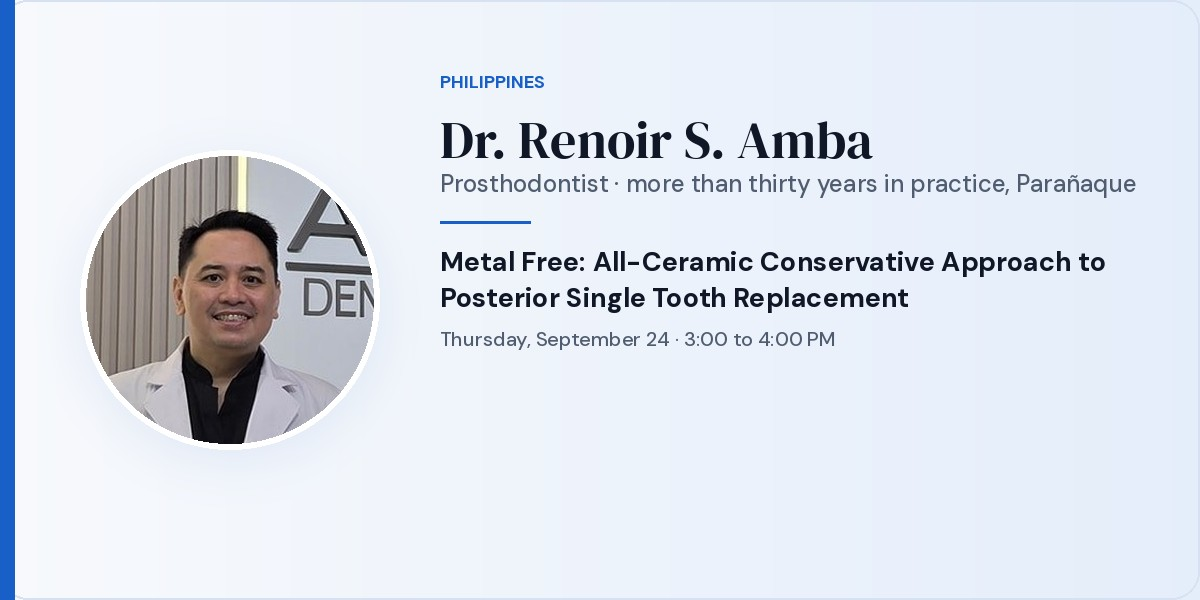
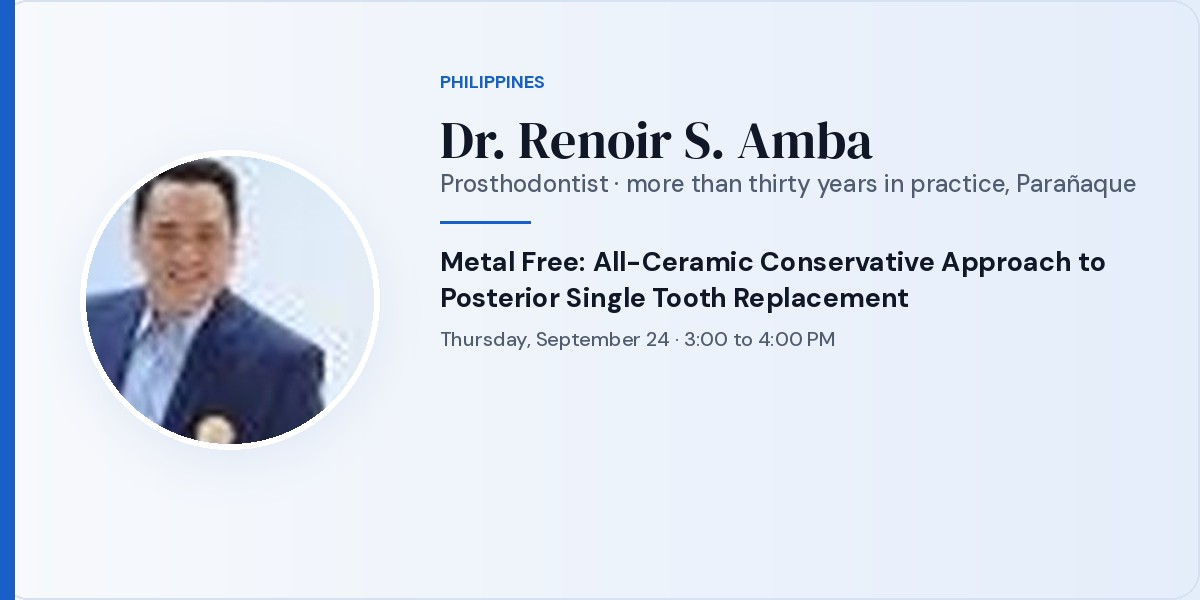
news: NADTI guide, real portraits for Ryan San and Abo Arsheed, Abo Arsheed credentials from the Mi-DENT bio
Claude-Session: https://claude.ai/code/session_014Ra92q29sWd9fBiskr8DQ3

Changed region(s): [[0.0617, 0.24, 0.3083, 0.75]]

diff --git a/src/data/news.js b/src/data/news.js
@@ -929,7 +929,7 @@ NADTI's posts give each speaker a name, a flag and a title. We went further and 
 
 ![Dr. Noor Addeen Abo Arsheed](/images/news/nadti-2026-smx-manila-complete-guide/card-noor-addeen-abo-arsheed.jpg)
 
-**Dr. Noor Addeen Abo Arsheed, MAHSA University, Malaysia.** An Associate Professor and certified maxillofacial prosthodontist who heads the Restorative Dentistry Department of the Faculty of Dentistry at MAHSA University in Selangor. He previously served as Deputy Dean and head of clinical teaching at Lincoln University College, and he is a co-author of a systematic review and meta-analysis on the Biologically Oriented Preparation Technique. He speaks twice at NADTI: on Tuesday afternoon he makes the case for the **endocrown**, the single-piece ceramic restoration that anchors in the pulp chamber instead of a post and core, as part of the biomimetic movement in restorative dentistry; on Thursday morning he opens the Student Forum on the judgment every clinician makes daily, whether a compromised tooth is worth saving. NADTI notes this is his second visit to the Philippines.
+**Dr. Noor Addeen Abo Arsheed, MAHSA University, Malaysia.** An Associate Professor and certified maxillofacial prosthodontist who heads the Restorative Dentistry Department of the Faculty of Dentistry at MAHSA University in Selangor. He earned his Bachelor of Dental Surgery in 2005 and his master's degree and specialization in prosthodontics in 2010, trained under the prosthodontic rehabilitation specialists Joseph Massad and Matthias Kern, and now carries more than fifteen years of clinical and teaching experience. He is a Fellow of the Pierre Fauchard Academy and a member of the International College of Prosthodontists, previously served as Deputy Dean and head of clinical teaching at Lincoln University College, and is a co-author of a systematic review and meta-analysis on the Biologically Oriented Preparation Technique. He speaks twice at NADTI: on Tuesday afternoon he makes the case for the **endocrown**, the single-piece ceramic restoration that anchors in the pulp chamber instead of a post and core, as part of the biomimetic movement in restorative dentistry; on Thursday morning he opens the Student Forum on the judgment every clinician makes daily, whether a compromised tooth is worth saving. NADTI notes this is his second visit to the Philippines.
 
 ![Dr. Felylou Altura Fernandez](/images/news/nadti-2026-smx-manila-complete-guide/card-felylou-altura-fernandez.jpg)
 
